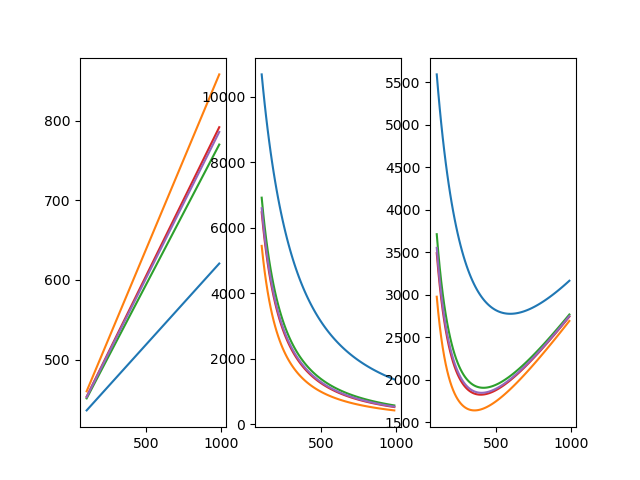
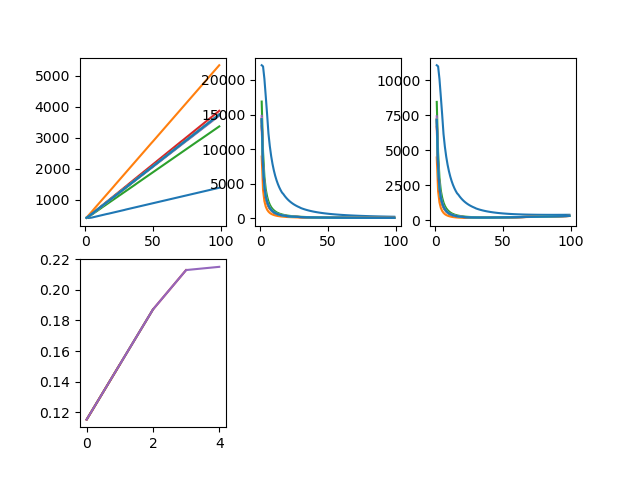
11.27_v1

diff --git a/alg/fedstream/fedstream.py b/alg/fedstream/fedstream.py
@@ -101,53 +101,25 @@ class Server(object):
         # 背景超参数
         self.epsilon_list = np.array([1] * self.num_client) #[K] 0-1之间
         self.delta_list = np.array([1] * self.num_client) # [K]
-        self.alpha_list = [0.5] * self.num_client # 收集数据的价格
-        self.beta_list = [1e-3] * self.num_client # 训练数据的价格 如果稍大变负数就收敛不了，如果是0就没有不动点的意义
+        self.alpha_list = [1e-3] * self.num_client # 收集数据的价格
+        self.beta_list = [1e-4] * self.num_client # 训练数据的价格 如果稍大变负数就收敛不了，如果是0就没有不动点的意义
         self.theta = 0.5 # 数据丢弃率
         self.fix_eps = 1
         self.fix_max_iter = 10000
         
         self.kappa_1 = 1
         self.kappa_2 = 1
-        self.kappa_3 = 8e5 # 重点1
+        self.kappa_3 = 1e6 # 重点1
         self.gamma = 0.5
         
-        self.lb = 1e2
-        self.ub = 1e3 # 10e6 # 重点2
-        self.pop = 600 # 探索空间划定得越大，需要的粒子就多点，就能找到精确最优解！
+        self.lb = 1
+        self.ub = 100 # 10e6 # 重点2
+        self.pop = 1000 # 探索空间划定得越大，需要的粒子就多点，就能找到精确最优解！
         self.pso_eps = 1e-2
         self.pso_max_iter = 500
-        
-        """ 
-        配置1：
-        1e-8
-        5e12
-        1e6
-        
-        配置2：修改max √
-        1e-3
-        5e12
-        1e3 - 1e6
-        
-        配置3：
-        1e-3
-        5e10
-        1e6
-        
-        配置4： √
-        1e-3
-        5e6
-        1e2-1e4
-        
-        配置5：√
-        1e-3
-        1e6
-        1e2-1e4
-        """
-
-      
+              
     
-    def estimate_D(self, phi_list, reward):
+    def estimate_D(self, phi_list, reward, ind=0):
         # 初始化数据矩阵
         data_matrix = self.data_matrix_init
         
@@ -163,22 +135,16 @@ class Server(object):
                         item2 = self.epsilon_list[k] * reward[0] / (self.delta_list[k] * phi_list[tau])
                         item3 = 2 * self.beta_list[k] * data_matrix[k][tau]
                         item += item1 * (item2 - item3)
-                        # if item2 - item3 < 0:
-                        #     print('negative')
-                        #     print(reward[0])
-                        #     print(phi_list)
-                        #     print(phi_list[tau])
-                        #     print(item2)
-                        #     print(item3)
-                        #     exit(0)
                     increment = 1 / (2 * self.alpha_list[k]) * item
-                    if increment <= 0:
-                        print('dual')
+                    # if increment <= 0:
+                    #     print('dual')
                     increment = max(0, increment) # 好哇好
                     increment_list.append(increment)
                 increment_list.append(0)
                 increment_matrix.append(increment_list)
-
+                
+            if ind == 1:
+                print(np.array(increment_matrix))
             
             # 新的数据矩阵[K, T]
             next_data_matrix = []
@@ -271,7 +237,7 @@ class Server(object):
                 item = (1 - self.gamma) * (item_1 + item_2) + self.gamma * reward
                 res_2 += item_2
                 res += item
-            return res_2, res
+            return data_matrix, res_2, res
         
         # 初始化phi_list
         phi_list = self.phi_list_init
@@ -279,42 +245,40 @@ class Server(object):
         # 计算新的phi_list[T]
         for idc in range(self.fix_max_iter):
             reward, res = self.estimate_R(phi_list)
-            data_matrix = self.estimate_D(phi_list, reward)
+            data_matrix = self.estimate_D(phi_list, reward, 1)
             print('******************************************************')
             print('{}, {}, {}, {}'.format(idc, phi_list, reward, res))
             print('{}'.format(data_matrix))
             # print('--------------------------------------')
-            # print('{}'.format(func(reward)[0]))
-            # print('--------------------------------------')
-            # print('{}'.format(func(reward)[1]))
+            # print('{}'.format(func(phi_list, reward)[0]))
+            # # print('--------------------------------------')
+            # # print('{}'.format(func(phi_list, reward)[1]))
             # 先epsilon/delta，再施加到data_matrix
             # print(data_matrix.shape)
             next_phi_list = np.sum(data_matrix * ((self.epsilon_list / self.delta_list).reshape(self.num_client, 1)), axis=0)
             # 判断收敛
             if np.max(np.abs(next_phi_list - phi_list)) > self.fix_eps:
                 phi_list = next_phi_list
-                x = np.arange(self.lb, self.ub, 10)
+                x = np.arange(self.lb, self.ub, 1)
                 y1 = [np.sum(self.estimate_D(phi_list, np.array([i]))) for i in x]
                 y2 = []
                 y3 = []
                 for i in x:
-                    a, b = func(phi_list, np.array([i]))
+                    _, a, b = func(phi_list, np.array([i]))
                     y2.append(a)
                     y3.append(b)
-                plt.subplot(1,3,1)
+                plt.subplot(2,3,1)
                 plt.plot(x, y1)
-                plt.subplot(1,3,2)
+                plt.subplot(2,3,2)
                 plt.plot(x, y2)
-                plt.subplot(1,3,3)
+                plt.subplot(2,3,3)
                 plt.plot(x, y3)
                 plt.savefig('../../logs/fedavg/2.png')
             else:
                 print('triumph2')
-                exit(0)
                 return next_phi_list
             
         print('failure2')
-        exit(0)
         return next_phi_list
 
 
@@ -322,11 +286,10 @@ class Server(object):
         
         # 正式训练前定好一切
         phi_list = self.estimate_phi() # [T]
-        reward = self.estimate_R(phi_list) # [K, T]
+        reward, res = self.estimate_R(phi_list) # [K, T]
         data_matrix = self.estimate_D(phi_list, reward)
         # numpy 切片格式 [:, :]
         data_sum_list = [sum(data_matrix[:, t]) for t in range(self.num_round)]
-        print(data_matrix)
         
         # 初始化数据
         # 临时记录，求平均后是self.delta_list
@@ -390,6 +353,10 @@ class Server(object):
                         total += label.shape[0]
                 acc = correct / total
                 accuracy_list.append(acc)
+                
+            plt.subplot(2,3,4)
+            plt.plot(accuracy_list)
+            plt.savefig('../../logs/fedavg/2.png')
         
         with open('../../logs/fedavg/accuracy.txt', 'a') as file:
             file.write('{}\n'.format(time.asctime()))
